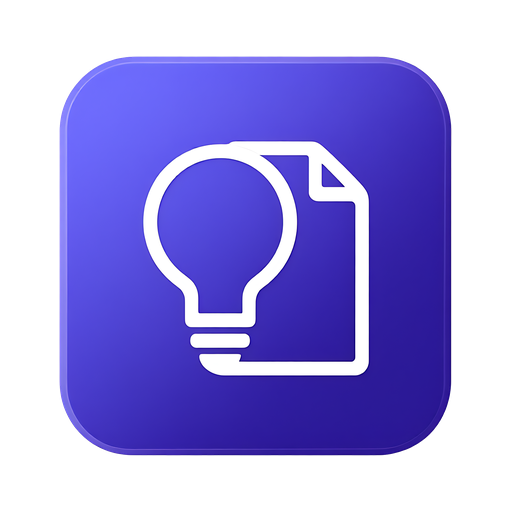
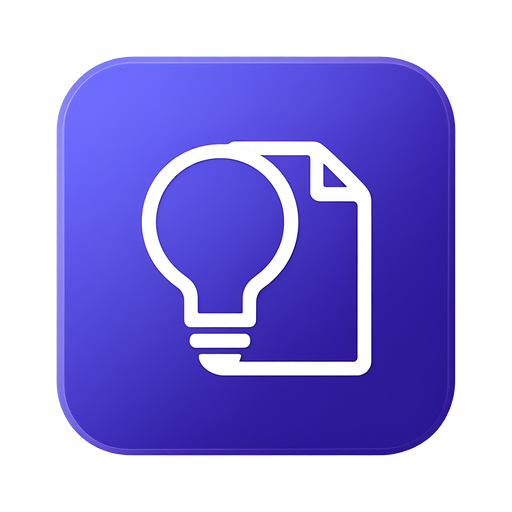
T06016 统一 AI 工作台 11 张功能卡片图标为方形内容区

diff --git a/scripts/normalize-report-icons.py b/scripts/normalize-report-icons.py
@@ -4,8 +4,10 @@
 问题：原生成图的透明画布内，彩色圆角方块占比不同（最大边长 1207~1902 像素），
 直接缩到 512 接入同一 30px 图标容器后，视觉上会出现“有的图标大、有的图标小”。
 
-做法：按 alpha 非透明边界裁切，保持宽高比缩放到固定内容区（默认 400/512，
-即约 78%），再居中放入透明画布。这样所有图标在同一容器内视觉尺寸一致。
+做法：按 alpha 非透明边界裁切，统一缩放到固定内容区（默认 400x400/512，
+即约 78%）。注意这里刻意按方形缩放而非保持宽高比：源图里部分圆角方块本身是
+窄长比例（如 offline 363x400、review-lecture 387x400），只按最大边缩放后
+在 30px 容器里仍会比其它图标窄一截，用户视觉上就是「logo 大小不一致」。
 
 用法：
   python scripts/normalize-report-icons.py           # 重新生成
@@ -54,11 +56,10 @@ def alpha_bbox(im: Image.Image) -> tuple[int, int, int, int]:
 def normalized(im: Image.Image) -> Image.Image:
     bbox = alpha_bbox(im)
     crop = im.crop(bbox)
-    scale = CONTENT / max(crop.size)
-    size = (max(1, round(crop.width * scale)), max(1, round(crop.height * scale)))
-    resized = crop.resize(size, Image.Resampling.LANCZOS)
+    # T06016 复查：统一到方形内容区，避免窄长图标在同一容器里视觉偏小
+    resized = crop.resize((CONTENT, CONTENT), Image.Resampling.LANCZOS)
     canvas = Image.new("RGBA", (CANVAS, CANVAS), (0, 0, 0, 0))
-    canvas.alpha_composite(resized, ((CANVAS - size[0]) // 2, (CANVAS - size[1]) // 2))
+    canvas.alpha_composite(resized, ((CANVAS - CONTENT) // 2, (CANVAS - CONTENT) // 2))
     return canvas
 
 
@@ -67,9 +68,10 @@ def check(path: Path) -> tuple[int, int, int, int]:
     if im.size != (CANVAS, CANVAS):
         raise ValueError(f"{path.name}: 期望 {CANVAS}x{CANVAS}，实际 {im.size}")
     bbox = alpha_bbox(im)
-    max_side = max(bbox[2] - bbox[0], bbox[3] - bbox[1])
-    if abs(max_side - CONTENT) > TOLERANCE:
-        raise ValueError(f"{path.name}: 内容最大边 {max_side}px，期望 {CONTENT}px ±{TOLERANCE}")
+    width = bbox[2] - bbox[0]
+    height = bbox[3] - bbox[1]
+    if abs(width - CONTENT) > TOLERANCE or abs(height - CONTENT) > TOLERANCE:
+        raise ValueError(f"{path.name}: 内容区 {width}x{height}px，期望 {CONTENT}x{CONTENT}px ±{TOLERANCE}")
     return bbox
 
 
